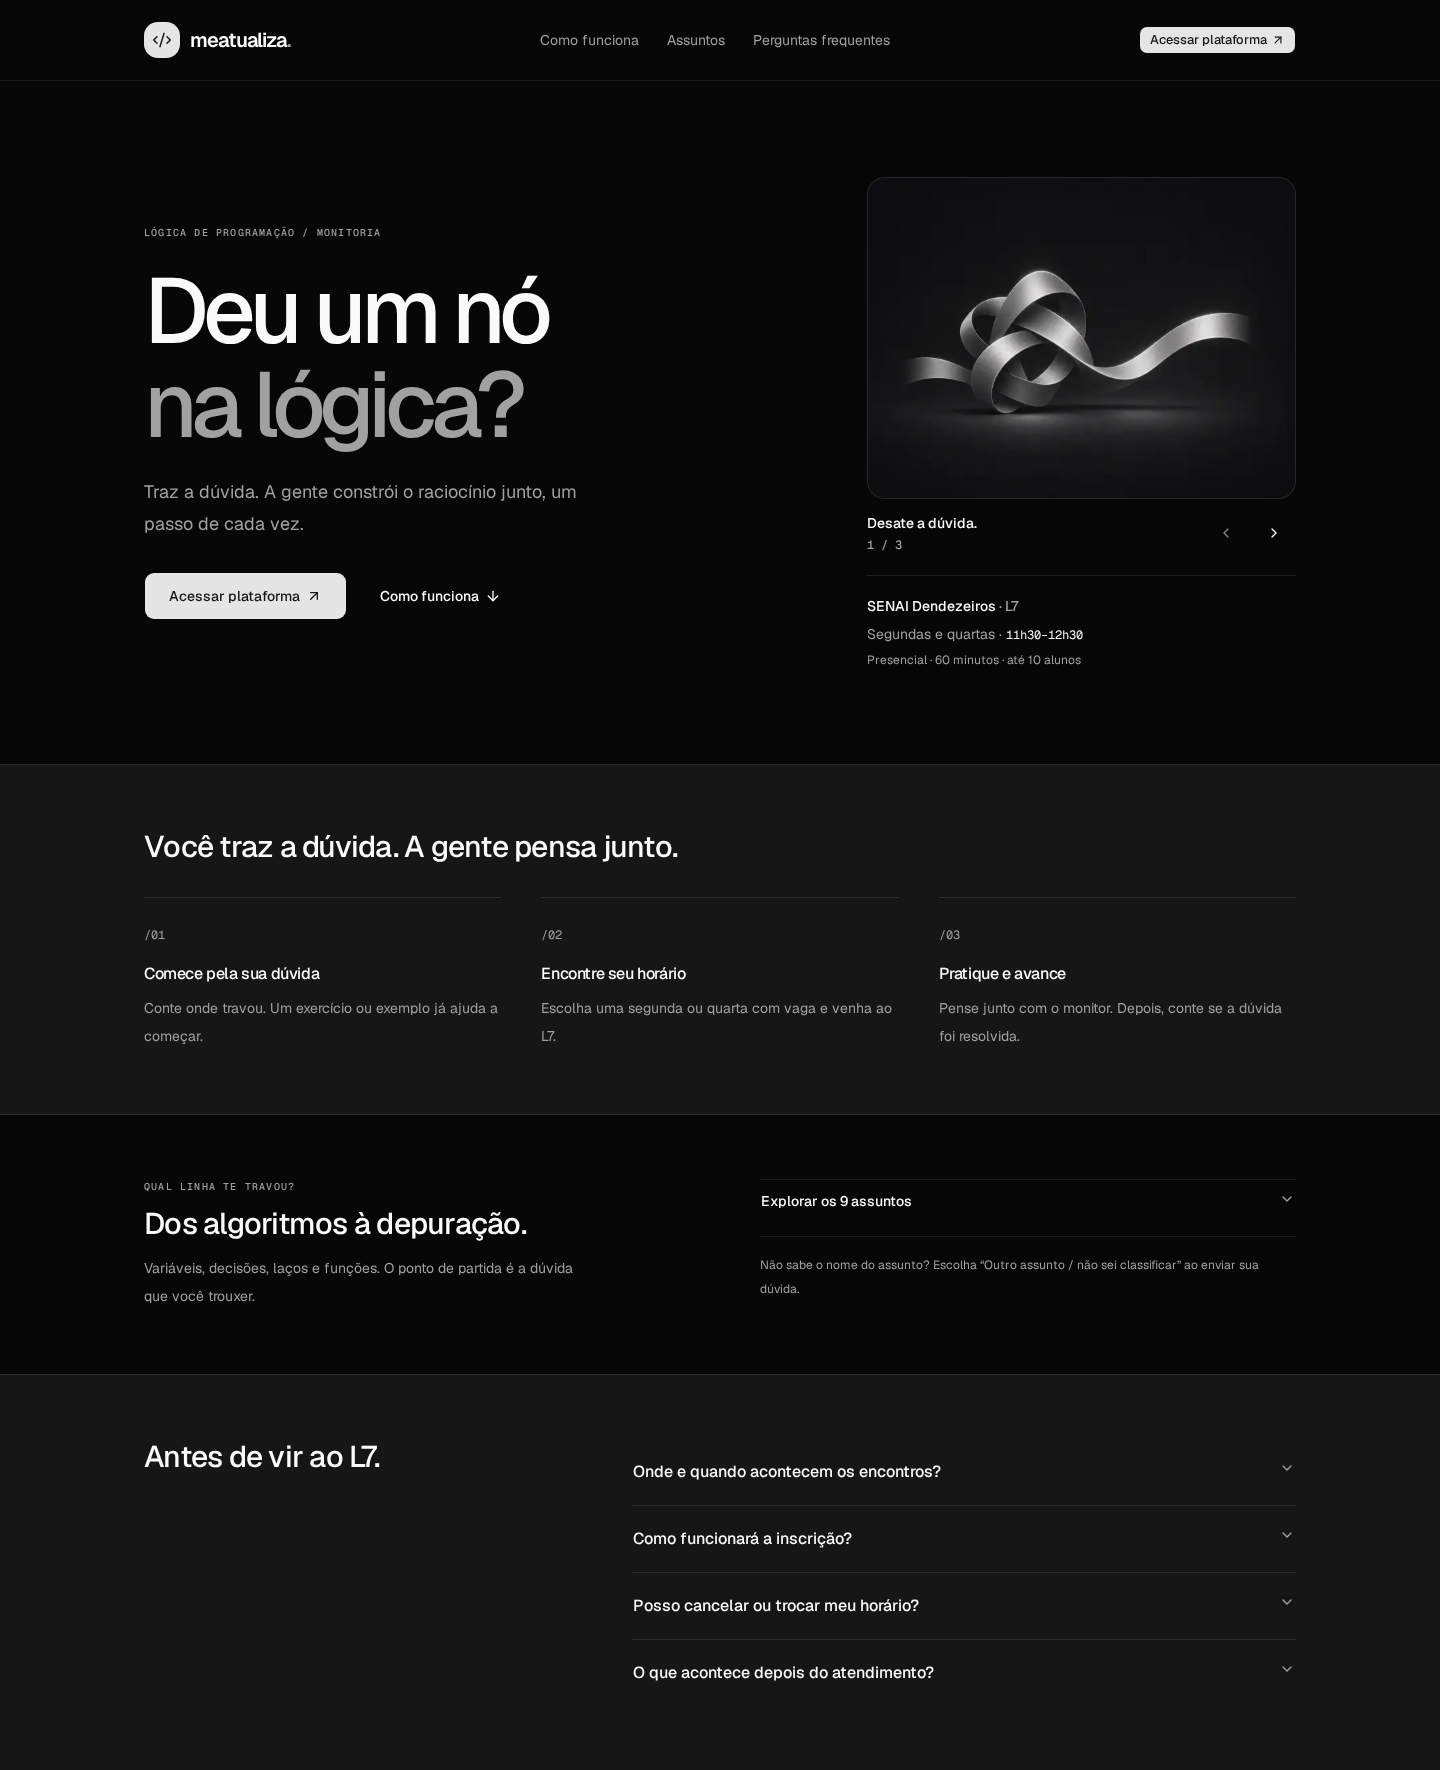
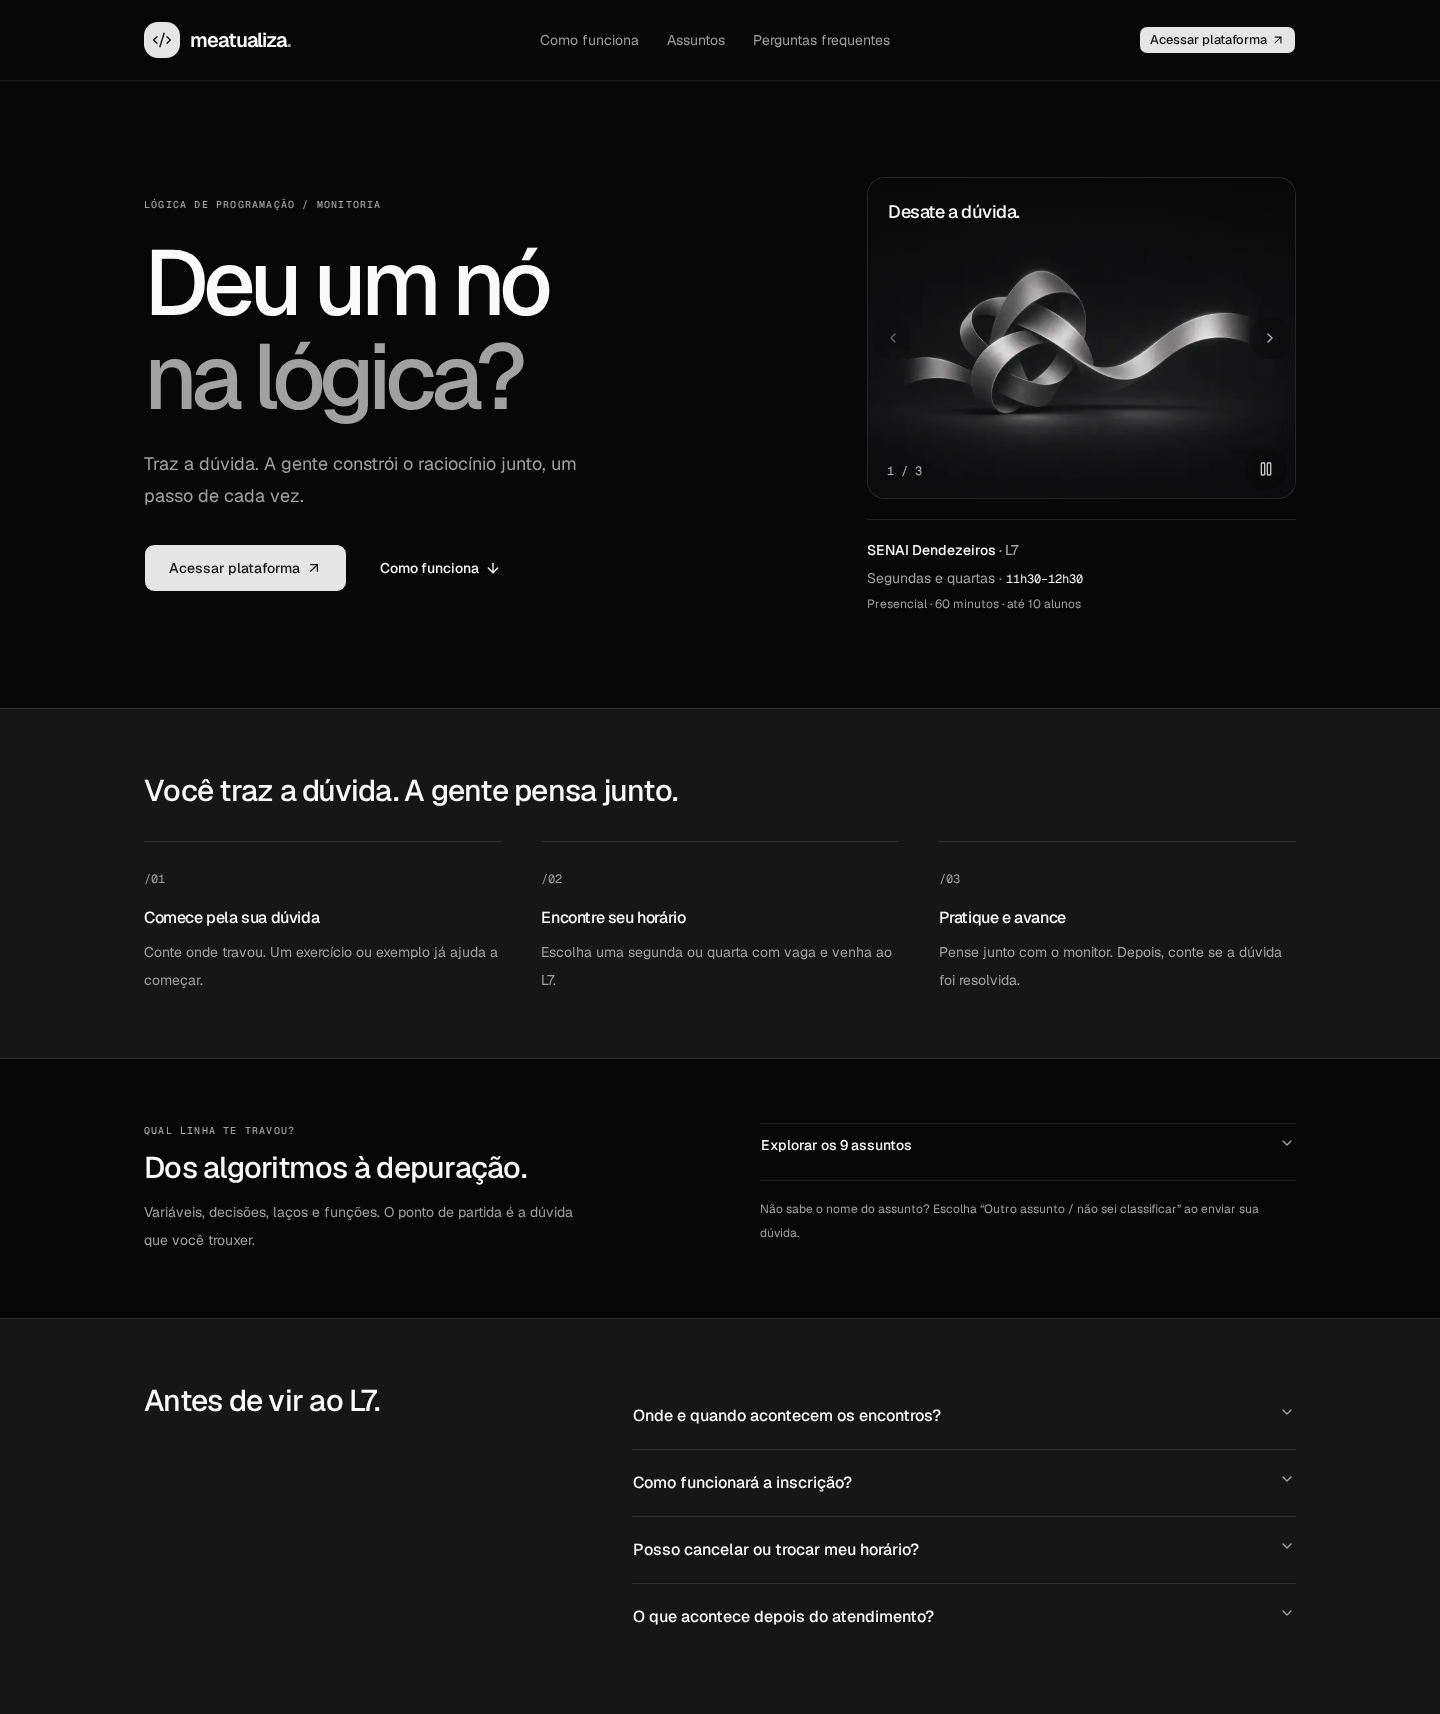
feat(landing): add timed carousel with overlay controls

diff --git a/src/features/landing/learning-carousel.tsx b/src/features/landing/learning-carousel.tsx
@@ -1,10 +1,25 @@
 "use client";
 
 import Image from "next/image";
-import { useRef, useState } from "react";
-import { ChevronLeft, ChevronRight } from "lucide-react";
+import {
+  useEffect,
+  useEffectEvent,
+  useRef,
+  useState,
+  useSyncExternalStore,
+} from "react";
+import { ChevronLeft, ChevronRight, Pause, Play } from "lucide-react";
 import { Button } from "@/components/ui/button";
 import { useHydrated } from "@/lib/use-hydrated";
+
+const AUTOPLAY_INTERVAL_MS = 5_000;
+const REDUCED_MOTION_QUERY = "(prefers-reduced-motion: reduce)";
+
+function subscribeToMotionPreference(onChange: () => void) {
+  const preference = window.matchMedia(REDUCED_MOTION_QUERY);
+  preference.addEventListener("change", onChange);
+  return () => preference.removeEventListener("change", onChange);
+}
 
 const slides = [
   {
@@ -27,23 +42,72 @@ const slides = [
 export function LearningCarousel() {
   const track = useRef<HTMLDivElement>(null);
   const [active, setActive] = useState(0);
+  const [playing, setPlaying] = useState(true);
+  const [hovered, setHovered] = useState(false);
   const ready = useHydrated();
+  const reducedMotion = useSyncExternalStore(
+    subscribeToMotionPreference,
+    () => window.matchMedia(REDUCED_MOTION_QUERY).matches,
+    () => true,
+  );
+  const rotating = playing && !reducedMotion;
+  const rotationLabel = reducedMotion
+    ? "Avanço automático desativado por movimento reduzido"
+    : playing
+      ? "Pausar avanço automático"
+      : "Iniciar avanço automático";
 
   function goTo(index: number) {
     const target = Math.max(0, Math.min(slides.length - 1, index));
     track.current?.scrollTo({ left: target * track.current.clientWidth });
   }
 
+  const advance = useEffectEvent(() => {
+    if (!document.hidden) goTo((active + 1) % slides.length);
+  });
+
+  useEffect(() => {
+    if (!rotating || hovered) return;
+    const timer = window.setInterval(() => advance(), AUTOPLAY_INTERVAL_MS);
+    return () => window.clearInterval(timer);
+  }, [rotating, hovered]);
+
   return (
     <section
       aria-label="Imagens para destravar a lógica"
       aria-roledescription="carrossel"
+      onPointerEnter={(event) => {
+        if (event.pointerType === "mouse") setHovered(true);
+      }}
+      onPointerLeave={(event) => {
+        if (event.pointerType === "mouse") setHovered(false);
+      }}
+      onFocusCapture={(event) => {
+        if (event.target.matches(":focus-visible")) setPlaying(false);
+      }}
+      className="relative"
     >
+      <Button
+        type="button"
+        variant="ghost"
+        size="icon"
+        className="absolute right-2 bottom-2 z-10 size-11 rounded-full bg-background/40 text-foreground/80 hover:bg-background/70 hover:text-foreground dark:hover:bg-background/70"
+        aria-label={rotationLabel}
+        title={rotationLabel}
+        disabled={!ready || reducedMotion}
+        onClick={() => {
+          setPlaying(!playing);
+          setHovered(false);
+        }}
+      >
+        {rotating ? <Pause aria-hidden="true" /> : <Play aria-hidden="true" />}
+      </Button>
       <div
         ref={track}
         role="group"
         aria-label="Galeria de imagens"
         tabIndex={0}
+        onPointerDown={() => setPlaying(false)}
         onScroll={(event) => {
           const { scrollLeft, clientWidth } = event.currentTarget;
           setActive(
@@ -56,6 +120,7 @@ export function LearningCarousel() {
         onKeyDown={(event) => {
           if (event.key === "ArrowLeft" || event.key === "ArrowRight") {
             event.preventDefault();
+            setPlaying(false);
             goTo(active + (event.key === "ArrowRight" ? 1 : -1));
           }
         }}
@@ -79,47 +144,56 @@ export function LearningCarousel() {
               draggable={false}
               className="object-cover"
             />
+            <div className="pointer-events-none absolute inset-0 bg-linear-to-b from-background/80 via-transparent to-background/30" />
+            <p className="pointer-events-none absolute inset-x-5 top-5 text-base font-medium tracking-tight text-foreground sm:text-lg">
+              {slide.title}
+            </p>
           </div>
         ))}
       </div>
-      <div className="mt-3 flex items-center justify-between gap-4">
-        <p
-          aria-live="polite"
-          aria-atomic="true"
-          className="text-sm font-medium"
-        >
-          {slides[active].title}
-          <span className="mt-1 block font-mono text-xs text-muted-foreground">
-            {active + 1} / {slides.length}
-          </span>
-        </p>
-        <div className="flex gap-1">
-          <Button
-            type="button"
-            variant="ghost"
-            size="icon"
-            className="size-11"
-            aria-label="Imagem anterior"
-            title="Imagem anterior"
-            disabled={!ready || active === 0}
-            onClick={() => goTo(active - 1)}
-          >
-            <ChevronLeft aria-hidden="true" />
-          </Button>
-          <Button
-            type="button"
-            variant="ghost"
-            size="icon"
-            className="size-11"
-            aria-label="Próxima imagem"
-            title="Próxima imagem"
-            disabled={!ready || active === slides.length - 1}
-            onClick={() => goTo(active + 1)}
-          >
-            <ChevronRight aria-hidden="true" />
-          </Button>
-        </div>
-      </div>
+      <p
+        aria-live={rotating && !hovered ? "off" : "polite"}
+        aria-atomic="true"
+        className="sr-only"
+      >
+        {slides[active].title} {active + 1} de {slides.length}
+      </p>
+      <span
+        aria-hidden="true"
+        className="pointer-events-none absolute bottom-5 left-5 font-mono text-xs text-foreground/70"
+      >
+        {active + 1} / {slides.length}
+      </span>
+      <Button
+        type="button"
+        variant="ghost"
+        size="icon"
+        className="absolute top-1/2 left-1 z-10 size-11 -translate-y-1/2 rounded-full bg-background/30 text-foreground/70 hover:bg-background/70 hover:text-foreground dark:hover:bg-background/70"
+        aria-label="Imagem anterior"
+        title="Imagem anterior"
+        disabled={!ready || active === 0}
+        onClick={() => {
+          setPlaying(false);
+          goTo(active - 1);
+        }}
+      >
+        <ChevronLeft aria-hidden="true" />
+      </Button>
+      <Button
+        type="button"
+        variant="ghost"
+        size="icon"
+        className="absolute top-1/2 right-1 z-10 size-11 -translate-y-1/2 rounded-full bg-background/30 text-foreground/70 hover:bg-background/70 hover:text-foreground dark:hover:bg-background/70"
+        aria-label="Próxima imagem"
+        title="Próxima imagem"
+        disabled={!ready || active === slides.length - 1}
+        onClick={() => {
+          setPlaying(false);
+          goTo(active + 1);
+        }}
+      >
+        <ChevronRight aria-hidden="true" />
+      </Button>
     </section>
   );
 }

diff --git a/tests/landing.spec.ts b/tests/landing.spec.ts
@@ -66,29 +66,34 @@ test("navega no carrossel por botões, teclado e rolagem", async ({ page }) => {
     name: "Imagens para destravar a lógica",
   });
   const track = carousel.getByRole("group", { name: "Galeria de imagens" });
+  const currentSlide = carousel.getByRole("group", {
+    name: /^Imagem \d de 3$/,
+  });
   const previous = carousel.getByRole("button", { name: "Imagem anterior" });
   const next = carousel.getByRole("button", { name: "Próxima imagem" });
   await carousel.scrollIntoViewIfNeeded();
   await expect(previous).toBeDisabled();
-  await expect(carousel.getByText("Desate a dúvida.")).toBeVisible();
+  await expect(currentSlide.getByText("Desate a dúvida.")).toBeVisible();
 
   await next.click();
-  await expect(carousel.getByText("Conecte as ideias.")).toBeVisible();
+  await expect(currentSlide.getByText("Conecte as ideias.")).toBeVisible();
   await track.focus();
   await page.keyboard.press("ArrowRight");
-  await expect(carousel.getByText("Um passo adiante.")).toBeVisible();
+  await expect(currentSlide.getByText("Um passo adiante.")).toBeVisible();
   await expect(next).toBeDisabled();
   await page.keyboard.press("ArrowLeft");
-  await expect(carousel.getByText("Conecte as ideias.")).toBeVisible();
+  await expect(currentSlide.getByText("Conecte as ideias.")).toBeVisible();
   await previous.click();
   await expect(previous).toBeDisabled();
+  await expect
+    .poll(() => track.evaluate((element) => element.scrollLeft))
+    .toBe(0);
 
   await track.evaluate((element) => {
     element.scrollTo({ left: element.clientWidth * 2, behavior: "instant" });
   });
-  await expect(carousel.getByText("Um passo adiante.")).toBeVisible();
-  const currentSlide = carousel.getByRole("group", { name: "Imagem 3 de 3" });
-  await expect(currentSlide).toBeInViewport();
+  await expect(currentSlide.getByText("Um passo adiante.")).toBeVisible();
+  await expect(currentSlide).toBeInViewport({ ratio: 0.98 });
   await expect(carousel.getByRole("img")).toHaveCount(1);
   await expect
     .poll(() =>
@@ -104,7 +109,109 @@ test("navega no carrossel por botões, teclado e rolagem", async ({ page }) => {
   await expect(track).toHaveCSS("scroll-behavior", "auto");
   await track.focus();
   await page.keyboard.press("ArrowLeft");
-  await expect(carousel.getByText("Conecte as ideias.")).toBeVisible();
+  await expect(currentSlide.getByText("Conecte as ideias.")).toBeVisible();
+});
+
+test("avança automaticamente a cada cinco segundos e permite pausar", async ({
+  page,
+}) => {
+  await page.clock.install();
+  await page.goto("/");
+  const carousel = page.getByRole("region", {
+    name: "Imagens para destravar a lógica",
+  });
+  const currentSlide = carousel.getByRole("group", {
+    name: /^Imagem \d de 3$/,
+  });
+  await expect(
+    carousel.getByRole("button", { name: "Pausar avanço automático" }),
+  ).toBeEnabled();
+
+  for (const index of [2, 3, 1]) {
+    await page.clock.fastForward(5_000);
+    await expect(currentSlide).toHaveAccessibleName(`Imagem ${index} de 3`);
+    await expect(currentSlide).toBeInViewport({ ratio: 0.98 });
+  }
+  await carousel
+    .getByRole("button", { name: "Pausar avanço automático" })
+    .click();
+  await page.mouse.move(0, 0);
+  await expect(
+    carousel.getByRole("button", { name: "Iniciar avanço automático" }),
+  ).toBeEnabled();
+  await page.clock.fastForward(15_000);
+  await expect(currentSlide).toHaveAccessibleName("Imagem 1 de 3");
+
+  await carousel
+    .getByRole("button", { name: "Iniciar avanço automático" })
+    .click();
+  await page.mouse.move(0, 0);
+  await page.clock.fastForward(4_000);
+  await expect(currentSlide).toHaveAccessibleName("Imagem 1 de 3");
+  await page.clock.fastForward(1_000);
+  await expect(currentSlide).toHaveAccessibleName("Imagem 2 de 3");
+});
+
+test("pausa ao apontar o mouse e mantém a pausa após interação por teclado", async ({
+  page,
+}) => {
+  await page.clock.install();
+  await page.goto("/");
+  const carousel = page.getByRole("region", {
+    name: "Imagens para destravar a lógica",
+  });
+  const currentSlide = carousel.getByRole("group", {
+    name: /^Imagem \d de 3$/,
+  });
+  await expect(
+    carousel.getByRole("button", { name: "Pausar avanço automático" }),
+  ).toBeEnabled();
+  await carousel.hover();
+  await page.clock.fastForward(15_000);
+  await expect(currentSlide).toHaveAccessibleName("Imagem 1 de 3");
+  await page.mouse.move(0, 0);
+  await page.clock.fastForward(5_000);
+  await expect(currentSlide).toHaveAccessibleName("Imagem 2 de 3");
+
+  await page.keyboard.press("Tab");
+  await carousel.getByRole("group", { name: "Galeria de imagens" }).focus();
+  await expect(
+    carousel.getByRole("button", { name: "Iniciar avanço automático" }),
+  ).toBeEnabled();
+  await page.getByRole("main").focus();
+  await page.clock.fastForward(15_000);
+  await expect(currentSlide).toHaveAccessibleName("Imagem 2 de 3");
+});
+
+test("desativa o avanço automático com movimento reduzido e preserva os controles manuais", async ({
+  page,
+}) => {
+  await page.emulateMedia({ reducedMotion: "reduce" });
+  await page.clock.install();
+  await page.goto("/");
+  const carousel = page.getByRole("region", {
+    name: "Imagens para destravar a lógica",
+  });
+  const currentSlide = carousel.getByRole("group", {
+    name: /^Imagem \d de 3$/,
+  });
+  const rotation = carousel.getByRole("button", {
+    name: "Avanço automático desativado por movimento reduzido",
+  });
+  await expect(rotation).toBeDisabled();
+  await page.clock.fastForward(15_000);
+  await expect(currentSlide).toHaveAccessibleName("Imagem 1 de 3");
+  await carousel.getByRole("button", { name: "Próxima imagem" }).click();
+  await expect(currentSlide).toHaveAccessibleName("Imagem 2 de 3");
+
+  await page.emulateMedia({ reducedMotion: "no-preference" });
+  await carousel
+    .getByRole("button", { name: "Iniciar avanço automático" })
+    .click();
+  await page.emulateMedia({ reducedMotion: "reduce" });
+  await expect(rotation).toBeDisabled();
+  await page.clock.fastForward(15_000);
+  await expect(currentSlide).toHaveAccessibleName("Imagem 2 de 3");
 });
 
 test("abre as perguntas frequentes por teclado", async ({ page }) => {

diff --git a/README.md b/README.md
@@ -21,7 +21,7 @@ Meatualiza helps students explain their questions, choose a course topic, and bo
 
 ## ✨ Available features
 
-- **Public landing:** compact dark layout with original illustrations, a manually controlled image carousel, session details, and expandable course topics.
+- **Public landing:** compact dark layout with original illustrations, an image carousel with overlaid captions and controls, session details, and expandable course topics. Images advance every five seconds; visitors can pause, navigate manually, or use reduced motion to disable automatic advancement.
 - **Google sign-in:** any personal or institutional Google account can join. The server selects the student or monitor workspace.
 - **Student dashboard:** upcoming confirmed registrations, saved questions, cancellation reasons, and direct links to the matching session in the agenda. Both workspaces have a responsive sidebar and an account menu for sign-out.
 - **Student agenda:** responsive calendar and list views, automatic confirmation when a seat is available, and one active registration per student per session.
